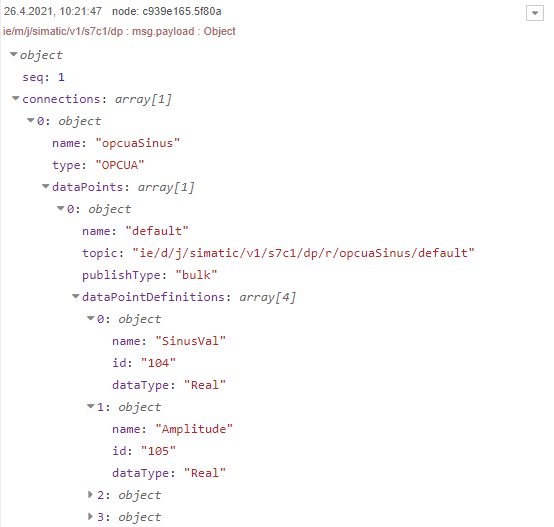
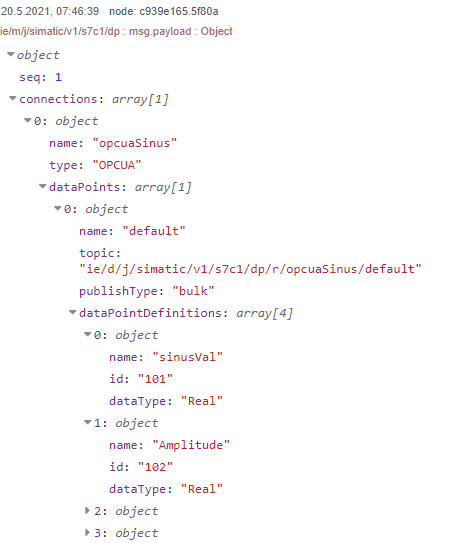
update Screenshot

Changed region(s): [[0.0, 0.0, 0.9251, 1.0], [0.9559, 0.0, 0.9868, 0.0304]]

diff --git a/docs/Implementation.md b/docs/Implementation.md
@@ -259,7 +259,7 @@ The following code snippet shows how to get the desired information from the wri
 
   msg.payload = timestampMapObject.ts;
 
-  newMsg.payload = timestampMapObject.map.get(nameIDMap.get("SinusVal"))
+  newMsg.payload = timestampMapObject.map.get(nameIDMap.get("sinusVal"))
 
   return [msg,newMsg];
 ```
